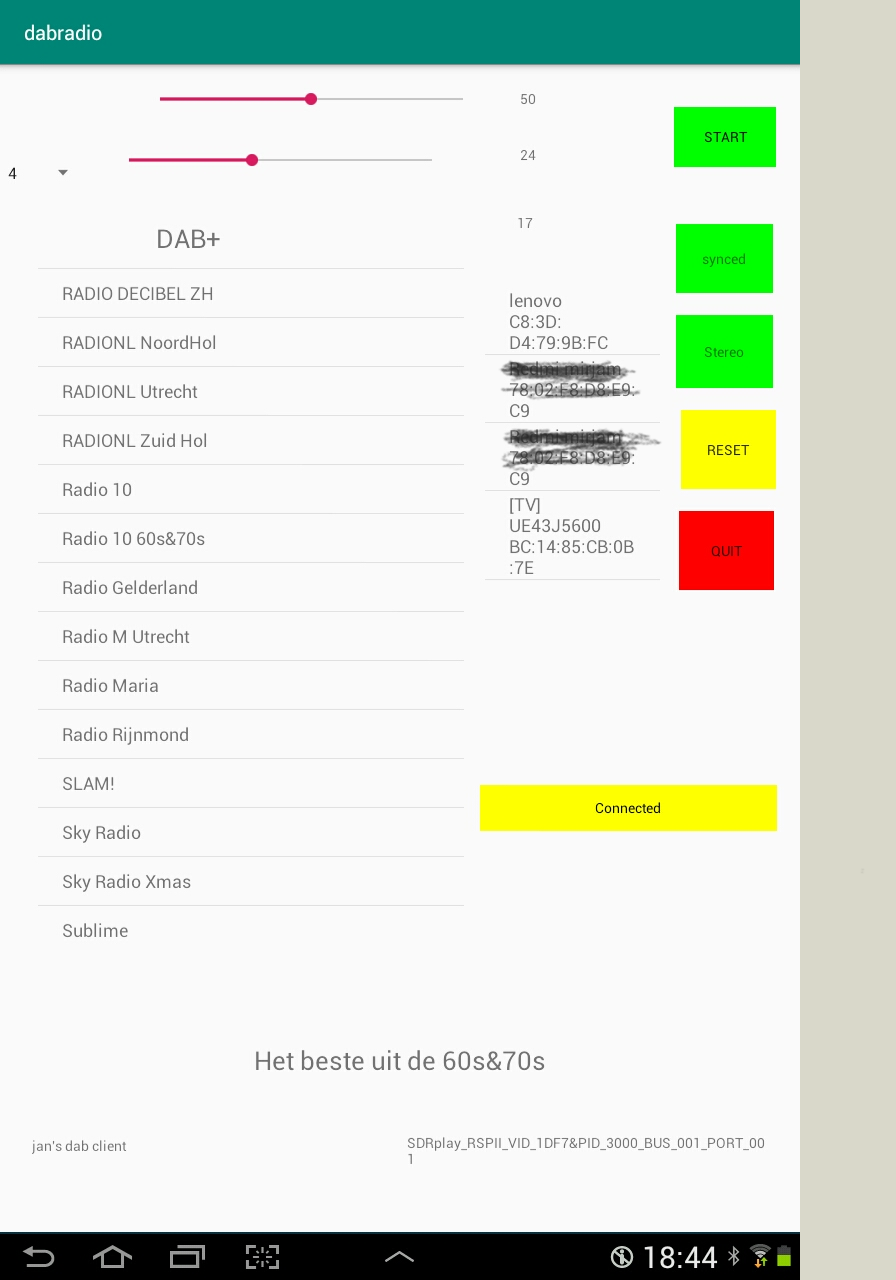
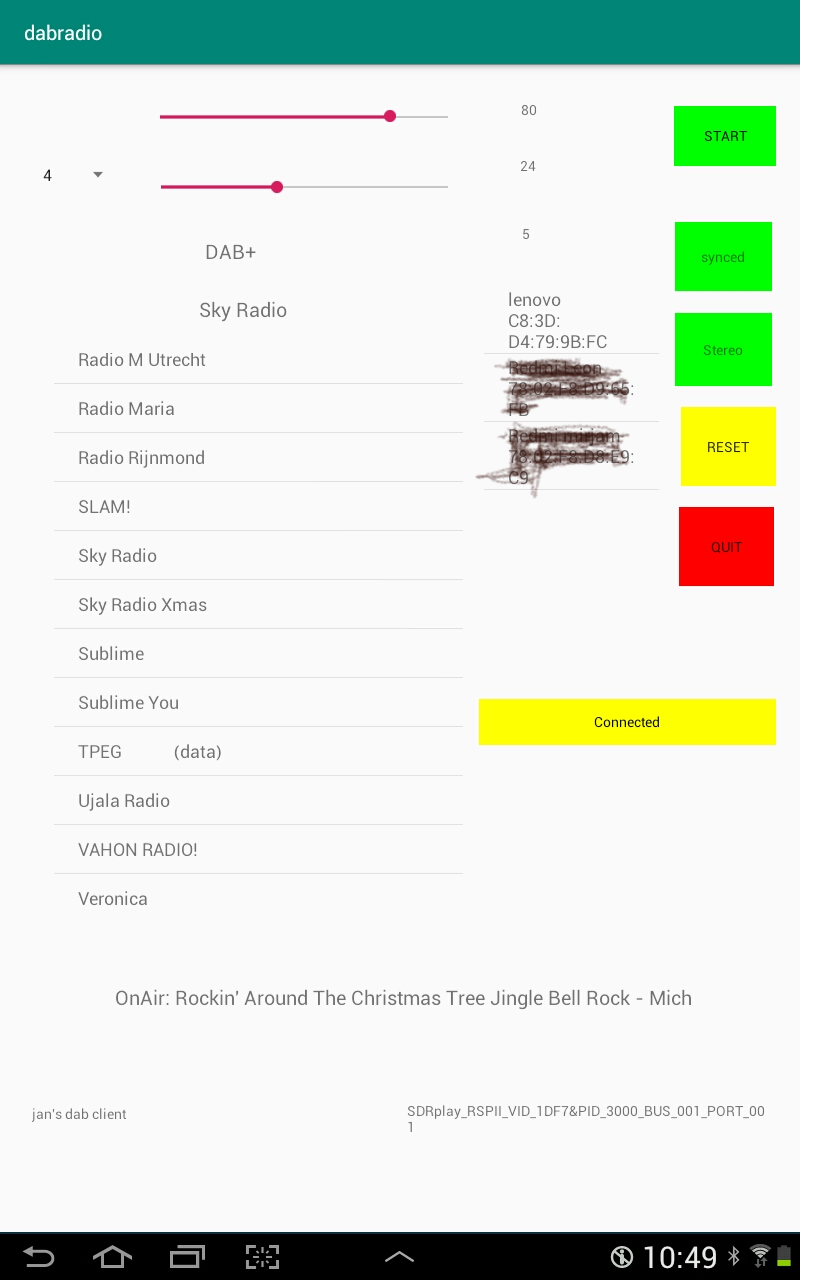
minor mod to gui

diff --git a/android client/app/src/main/java/com/example/jan/dabradio/MainActivity.java b/android client/app/src/main/java/com/example/jan/dabradio/MainActivity.java
@@ -40,6 +40,7 @@ public class MainActivity extends AppCompatActivity implements Signals {
     private TextView            tStatus;
     private TextView            snrLabel;
     private TextView            deviceLabel;
+    private TextView            serviceLabel;
     private ArrayAdapter<String> BTArrayAdapter;
     private ArrayList<Object>   BTResultMac;
     private CountDownTimer      scanTimer;
@@ -103,6 +104,7 @@ public class MainActivity extends AppCompatActivity implements Signals {
         lResult         = (ListView) findViewById(R. id. lResult);
         ensembleLabel   = (TextView)findViewById (R. id. ensembleLabel);
         deviceLabel     = (TextView)findViewById (R. id. deviceLabel);
+        serviceLabel    = (TextView)findViewById (R. id. serviceLabel);
 
         myBluetoothAdapter = BluetoothAdapter.getDefaultAdapter();
         my_radioInterface = new radioInterface (the_gui);
@@ -118,13 +120,13 @@ public class MainActivity extends AppCompatActivity implements Signals {
 
         gainSlider. setMax (59);
         gainSlider. setProgress (33);
-        gainLabel. setText (Integer. toString (33));
-        lnaState. setAdapter (lnaAdapter);
-        audioGain. setMax (100);
-        audioGain. setProgress (50);
+        gainLabel.  setText (Integer. toString (33));
+        lnaState.   setAdapter (lnaAdapter);
+        audioGain.  setMax (100);
+        audioGain.  setProgress (50);
         audioLabel. setText (Integer. toString (50));
 
-        services. setAdapter (serviceAdapter);
+        services.   setAdapter (serviceAdapter);
 
 //	touching the spinner
         lnaState. setOnItemSelectedListener(new AdapterView.
@@ -188,7 +190,7 @@ public class MainActivity extends AppCompatActivity implements Signals {
                 }
 
                 tStatus.setText ("Connected");
-                toaster ("Connected, going forward");
+                toaster ("Connected, we're on");
                 resetButton.       setEnabled (true);
                 gainSlider.        setEnabled (true);
                 autogainButton.    setEnabled (true);
@@ -206,6 +208,7 @@ public class MainActivity extends AppCompatActivity implements Signals {
                 try {
 	            my_radioInterface.
 	                      setService (theServices. get (position));
+                    serviceLabel. setText (theServices. get (position));
                 } catch (Exception e) {
                 }
             }
